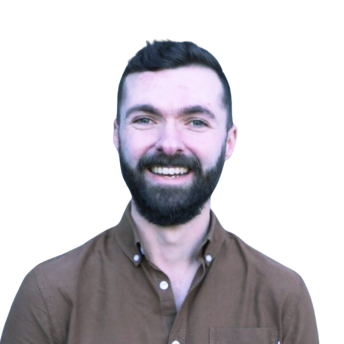
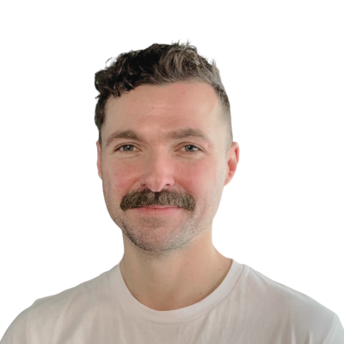
feat(web): update team page
Add Dale as CEO & move Noel to Co-founder. Remove Noel from Board section. Try
to standardise comma use. Resolves TEC-2016.

diff --git a/app/web/views.py b/app/web/views.py
@@ -246,20 +246,6 @@ BOARD = [
             Victorian Government, and as a ministerial media advisor."""
         ],
     },
-    {
-        "image": "web/img/photos/team/noel.png",
-        "name": "Noel Lim",
-        "title": "Board Member & CEO",
-        "linkedin": "https://www.linkedin.com/in/noel-lim-97356999/",
-        "brags": [
-            """Noel is the Chief Executive Officer and co-founder of Anika
-            Legal, and has led the founding team to become an organisation of 62
-            volunteers, and to receive successive AFR Client Choice Awards for
-            Startup of the Year (2019, 2020). Noel was a finalist for the
-            Victorian Young Australian of the Year (2023) and NFP Emerging
-            Leader award (2023).""",
-        ],
-    },
 ]
 
 
@@ -359,14 +345,31 @@ ADVISORS = [
 
 TEAM_MEMBERS = [
     {
+        "image": "web/img/photos/team/dale.png",
+        "name": "Dale Clough",
+        "title": "Chief Executive Officer",
+        "linkedin": "https://www.linkedin.com/in/dale-clough/",
+        "brags": [
+            """Dale drives the direction of our organisation and ensures that
+            each portfolio is successfully managed.""",
+            """Dale has a Masters of Business Administration and brings over a
+            decade of experience in leading large, highly engaged teams across
+            the private and not-for-profit sectors.""",
+        ],
+    },
+    {
         "image": "web/img/photos/team/noel.png",
         "name": "Noel Lim",
-        "title": "Chief Executive Officer",
+        "title": "Co-Founder",
         "linkedin": "https://www.linkedin.com/in/noel-lim-97356999/",
         "brags": [
-            """Noel drives the direction of our organisation and ensures that
-            each portfolio is successfully managed.""",
-            """Noel is the full-time CEO and co-founder of Anika Legal.""",
+            """Noel co-founded Anika Legal with the belief that providing
+            lawyers and law students with an opportunity to contribute to access
+            to justice can help close the justice gap for Victoria's
+            renters.""",
+            """Noel was named Victorian of the Year in 2025, is a Westpac Social
+            Change Fellow and is now growing Anika's strategic partnerships to
+            further our mission.""",
         ],
     },
     {
@@ -384,28 +387,12 @@ TEAM_MEMBERS = [
         ],
     },
     {
-        "image": "web/img/photos/team/dale.png",
-        "name": "Dale Clough",
-        "title": "Head of Partnerships & Fundraising",
-        "linkedin": "https://www.linkedin.com/in/dale-clough/",
-        "brags": [
-            """Dale leads our Partnerships & Fundraising function, ensuring that
-            Anika can continue to grow sustainably.""",
-            """Dale has over eight years of experience in leading large, highly
-            engaged teams and managing strategic partnerships across the private
-            and not-for-profit sectors. Dale has a Masters of Business
-            Administration, and a strong understanding of the donor development
-            cycle and solicitation process, as well as how to use data to
-            increase fundraising effectiveness.""",
-        ],
-    },
-    {
         "image": "web/img/photos/team/emily.png",
         "name": "Emily Southwell",
         "title": "Principal Lawyer",
         "linkedin": "https://www.linkedin.com/in/emily-southwell-95459213a/",
         "brags": [
-            """Emily is our Principal lawyer, and is responsible for developing
+            """Emily is our Principal lawyer and is responsible for developing
             and delivering the legal service we provide.""",
             """Emily brings a wealth of diverse experiences to Anika Legal. She
             has previously worked as a Coroner's Solicitor at the Coroner's
@@ -435,7 +422,7 @@ TEAM_MEMBERS = [
         "title": "Lawyer",
         "linkedin": "",
         "brags": [
-            """Sharon's journey at Anika is a story of growth, passion, and
+            """Sharon's journey at Anika is a story of growth, passion and
             making a real difference in the legal world. Starting out as a
             volunteer paralegal through a Deakin University internship, Sharon
             quickly rose through the ranks, becoming a paralegal lead. After she
